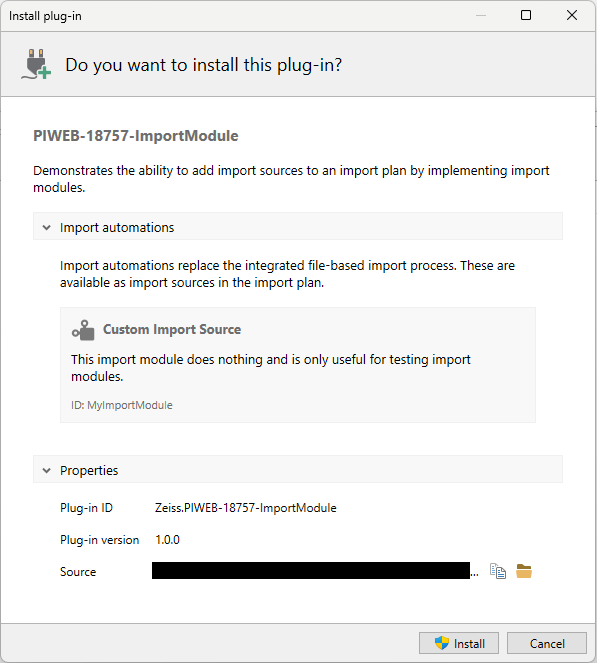
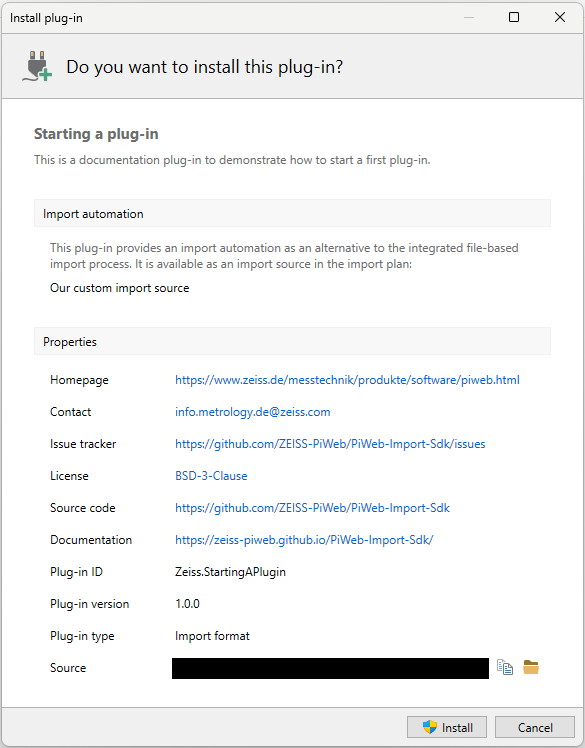
Changes starting a plug-in

diff --git a/docs/getting_started/3_import_automation.md b/docs/getting_started/3_import_automation.md
@@ -5,8 +5,6 @@ parent: Getting started
 title: Create your first import automation
 ---
 
-# {{ page.title }}
-
 <!---
 Ziele:
 - anhand einer einfachen Beispielanwendung Schritt für Schritt das Vorgehen und die wichtigsten Themen für den Modultyp beschreiben
@@ -22,87 +20,179 @@ Notizen:
 - Schema mit voller URL auf GitHub bereitstellen
 --->
 
-<!-- TODO Plug-in erstellen welches auf Cloud ein Teil ausliest bzw dies erstellt und dann zurück gibt. -->
+# {{ page.title }}
+The plug-in which is created here together should be an import automation. This connects to a PiWeb Cloud instance and checks for the presence of a specific part; if this is not present, the plug-in will create it.
 
-## Download source code
-<!-- TODO zip Datei verlinken/bereistellen -->
+{: .note }
+This chapter only covers the minimum functionality, to go deeper we recommend taking a look at the Plugin Fundamentals collection.
+
+## Download source code and content
+<!-- TODO zip Datei verlinken/bereistellen, bzw Code in example Ordner unter develop packen -->
+
+The following files are required for this automation and are included in the example. *manifest.json* defines the content of our plug-in. *Plugin.cs* which represents the entry point into the plug-in, in which it registers the import automation. *ImportAutomation.cs* contains the named automation and provides the necessary import runner, which executes the specific import plans. *ImportRunner.cs* contains this IImportRunner and is responsible for the import loop.
 
 ## IPlugin
-The module must be registered in the Auto Importer when the application is started.
+The import automation must be registered in the Auto Importer when the application is started.
 
+**Plugin.cs:**
 ```c#
-public class MyPlugin : IPlugin
-{
-    public Task Init(IPluginContext context)
-    {
-        context.RegisterImportAutomation("MyImportModule", new MyImportModule());
+using Zeiss.PiWeb.Import.Sdk;
+using Zeiss.PiWeb.Import.Sdk.Modules.ImportAutomation;
 
-        return Task.CompletedTask;
+public class Plugin : IPlugin
+{
+    public IImportAutomation GetImportAutomation(IImportAutomationContext context)
+    {
+        return new ImportAutomation();
     }
 }
 ```
 
-**RegisterImportAutomation:**\
-Registers an import automation. The ID of the Import Automation module and the object (of type **IImportAutomation**) to be registered must be given.
-
-{: .note }
-In this example an ImportFormat is registered. You can also register ImportAutomation, read the next chapter "Choose your module type" for more information.
+`RegisterImportAutomation`\
+Registers an import automation.
 
 ## IImportAutomation
 Represents a custom import automation provided as part of a plug-in. Custom import automations substitute the full Auto Importer import pipeline with custom logic and are available as import sources in an import plan configuration.
 
 ```c#
+using System.Threading.Tasks;
 using Zeiss.PiWeb.Import.Sdk.Modules.ImportAutomation;
 
-public class MyImportModule : IImportAutomation
+namespace Zeiss.FirstImportAutomation;
+
+public class ImportAutomation : IImportAutomation
 {
     public Task<IImportRunner> CreateImportRunnerAsync(IImportRunnerContext context)
     {
-        return Task.FromResult<IImportRunner>(new MyImportRunner(context));
+        return Task.FromResult<IImportRunner>(new ImportRunner(context));
     }
 }
 ```
 
-**CreateImportRunnerAsync:**\
+`CreateImportRunnerAsync`\
 Creates a new import runner instance. An import runner is first created and then executed when an import plan is using this import automation as import source is started. Each import plan is expected to use a separate import runner instance. For this reason this method must never return the same *IImportRunner* instance twice. If the import runner cannot be created (e.g. because of invalid import plan settings), a *CreateImportRunnerException* can be thrown. The created instance will be disposed after the import plan is stopped.
 
 ## IImportRunner
-Is responsible for processing the cyclical import and reacting to problems and errors accordingly.
+Is responsible for processing the cyclical import and reacting to problems and errors accordingly. In our example, the Auto Importer connects to our PiWeb Cloud instance and checks for the presence of the part named "FirstImportAutomationPart", the result is displayed to the user via Activities. In addition, the part is created if it is not found. This means that there should always be a part in the second import loop.
+
+{: .note }
+For the sake of completeness, the entire source code is presented here, followed by a step-by-step walkthrough.
 
 ```c#
+using System;
+using System.Linq;
+using System.Threading;
+using System.Threading.Tasks;
+using Zeiss.PiWeb.Api.Core;
+using Zeiss.PiWeb.Api.Rest.Common.Authentication;
+using Zeiss.PiWeb.Api.Rest.Dtos.Data;
+using Zeiss.PiWeb.Api.Rest.HttpClient.Builder;
+using Zeiss.PiWeb.Import.Sdk.Activity;
+using Zeiss.PiWeb.Import.Sdk.ImportPlan;
 using Zeiss.PiWeb.Import.Sdk.Modules.ImportAutomation;
 
-public sealed class MyImportRunner : IImportRunner
+public class ImportRunner( IImportRunnerContext context ) : IImportRunner
 {
-    public MyImportRunner(IImportRunnerContext context)
-    {
-        // Read stuff needed for the import loop from context here
-        // E.g. configuration properties from storage
-    }
+    private const string TargetPartName = "FirstImportAutomationPart";
+
+    private readonly IStatusService _StatusService = context.StatusService;
 
     public async Task RunAsync(CancellationToken cancellationToken)
     {
         try
         {
-            // Place your import loop here    
-        }
-        catch( OperationCanceledException )
-        {
-            // Happens when user stops the import plan, finish last import
-        }
-        catch
-        {
-            // Error handling and shutdown
-        }
-    }
+            // Define authentication
+            var authData = context.ImportTarget.AuthData;
 
-    public ValueTask DisposeAsync()
-    {
-        // Close your open connections and release reserved resources
-        return ValueTask.CompletedTask;
+            var authenticationHandler = authData.AuthType switch
+            {
+                AuthType.Basic => NonInteractiveAuthenticationHandler.Basic(authData.Username, authData.Password),
+                AuthType.WindowsSSO => NonInteractiveAuthenticationHandler.WindowsSSO(),
+                AuthType.Certificate => NonInteractiveAuthenticationHandler.Certificate(authData.CertificateThumbprint),
+                AuthType.OIDC => NonInteractiveAuthenticationHandler.OIDC(authData.ReadAndUpdateRefreshTokenAsync),
+                _ => null
+            };
+
+            // Rest client for PiWeb API
+            using var builder = new RestClientBuilder(new Uri(context.ImportTarget.ServiceAddress))
+                .SetAuthenticationHandler(authenticationHandler);
+
+            using var restClient = builder.CreateDataServiceRestClient();
+
+            // Target part path information
+            var targetPath = PathInformation.Root;
+            targetPath += PathElement.Part(TargetPartName);
+
+            // Check existing of that part in the import loop
+            while( !cancellationToken.IsCancellationRequested )
+            {
+                _StatusService.SetActivity(
+                    new ActivityProperties()
+                    {
+                        ActivityType = ActivityType.Normal,
+                        ShortDisplayText = "Checking PiWeb",
+                        DetailedDisplayText = $"Checking PiWeb for {targetPath.ToString()}"
+                    } );
+
+                // Request PiWeb API and check for part
+                var targetPart =
+                    ( await restClient.GetParts( targetPath, depth: 0, cancellationToken: cancellationToken ).ConfigureAwait( false ) )
+                    .FirstOrDefault();
+
+                if( targetPart != null )
+                {
+                    // Part is known in database
+
+                    _StatusService.SetActivity(
+                        new ActivityProperties()
+                        {
+                            ActivityType = ActivityType.Normal,
+                            ShortDisplayText = "Part exists",
+                            DetailedDisplayText = $"{targetPath.ToString()} exists in database"
+                        } );
+                }
+                else
+                {
+                    // Part is unknown in database
+
+                    _StatusService.SetActivity(
+                        new ActivityProperties()
+                        {
+                            ActivityType = ActivityType.Suspension,
+                            ShortDisplayText = "Part does NOT exists",
+                            DetailedDisplayText = $"{targetPath.ToString()} not found in database, creating it"
+                        } );
+
+                    // Create that part
+                    var part = new InspectionPlanPartDto
+                    {
+                        Uuid = Guid.NewGuid(),
+                        Path = targetPath
+                    };
+
+                    await restClient.CreateParts( [part], cancellationToken: cancellationToken ).ConfigureAwait( false );
+                }
+
+                await Task.Delay( TimeSpan.FromSeconds( 5 ), cancellationToken ).ConfigureAwait( false );
+            }
+        }
+        catch (OperationCanceledException)
+        {
+            // ignore
+        }
     }
 }
 ```
 
 **RunAsync:**\
 Executes a custom import automation. This method is called when an import plan is started by the user. The returned Task represents the executing import automation and should not complete until the automation is explicitly stopped by the user. When the user wants to stop the import plan, the given cancellation token is canceled. After this point the returned task is expected to complete eventually, but the current import activity should be completed beforehand. This method needs to be implemented asynchronous. This means that it is expected to return a task quickly and not to block the thread at any point. Use *Task.Run(System.Action)* to run synchronous blocking code on a background thread if necessary.
+
+## Running the plug-in
+To check that the plug-in works, we install it as described in chapter [Starting a plug-in]({% link docs/setup/1_import_destination.md %}). The plug-in management view should then look like this:\
+![Installed plug-in](../../assets/images/getting_started/3_management_view.png "Installed plug-in")
+
+We also need an import plan that uses our import source and uses the existing cloud instance as the target:\
+![Import plan](../../assets/images/getting_started/3_import_plan.png "Import plan")
+
+If we now click on Start, the automation is executed and after the third import loop it should look like this:\
+![Finished plug-in](../../assets/images/getting_started/3_finished.png "Finished plug-in")

diff --git a/docs/setup/5_starting_plugin.md b/docs/setup/5_starting_plugin.md
@@ -6,7 +6,6 @@ title: Starting a plug-in
 ---
 
 # {{ page.title }}
-
 This chapter describes the use of the plug-in from the user's perspective, i.e., how a compiled plug-in is installed and how it is used in the import plan. It is assumed that the user already has a finished plug-in.
 
 ## Download compiled example plug-in
@@ -32,16 +31,21 @@ The Auto Importer provides an installer option, for which the following steps mu
    ![Restart request](../../assets/images/deployment/ai_install_3.png "Restart request")
 
 ## Check plug-in
-To ensure that the plug-in has been installed correctly, you can call up the plug-in management view (`File > Plug-ins...`) again. The loaded plug-in will now appear there.
+To ensure that the plug-in has been installed correctly, you can call up the plug-in management view (`File > Plug-ins...`) again. The loaded plug-in will now appear there.\
+![Plug-in management view](../../assets/images/setup/5_manifest.png "Plug-in management view")
 
-<!-- TODO Besseres vollständiges Bild einbetten, mit dem Download plug-in übereinstimmend -->
-![Plug-in management view](../../assets/images/setup/2_manifest.png "Plug-in management view")
+## Create import plan
+To test the installed plug-in, an import plan must first be created; an import plan defines a source and a target. To do this, please click on *Create import plan*.\
+![Create import plan](../../assets/images/setup/5_import_plan.png "Create import plan")
 
 ## Import plan with custom module
-If the plug-in has been loaded correctly and modules have been recognized, they can be selected as an import source in an import plan:
+If the plug-in has been loaded correctly, the custom import source can be selected as an import source in an import plan. Please adjust all settings according to the screenshot.\
+![Auto Importer import source](../../assets/images/setup/5_import_source.png "Auto Importer import source")
 
-![Auto Importer import source](../../assets/images/getting_started/1_import_source.png "Auto Importer import source")
+To select your cloud database as the destination, please go to Select connection and select Auto.\
+![Cloud connection](../../assets/images/setup/5_cloud.png "Cloud connection")
 
-After selecting the module, the defined configuration entries are displayed.
+Via **Run**, the import plan is started with this configuration. The plug-in only demonstrates the switching of the activity and status log. At the end of the execution, an error is provoked.\
+![Running the plug-in](../../assets/images/setup/5_run.png "Running the plug-in")
 
-Via **Run**, the import plan is started with this configuration.
+You can find out more about import visualization options in the [Import monitoring]({% link docs/plugin_fundamentals/7_monitoring.md %}) chapter. The following chapters describe the minimum source code required for a plug-in. [Continue reading]({% link docs/getting_started/1_plugin_type.md %}).
